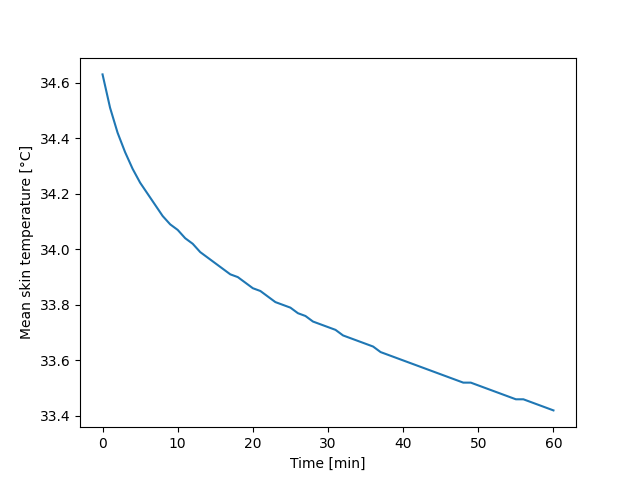
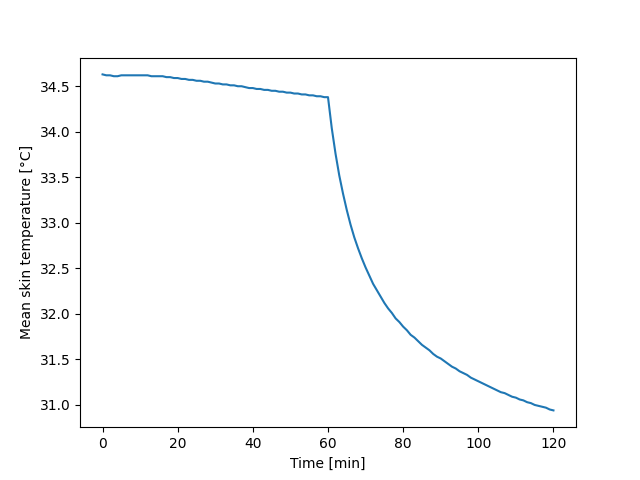
Updated female simulation code.

diff --git a/examples/calc_jos3.py b/examples/calc_jos3.py
@@ -166,21 +166,26 @@ def female_simulation():
     model = JOS3(height=1.7, weight=60, age=30, sex="female", bmr_equation="japanese")
 
     # Set the first phase
-    model.to = 28  # Operative temperature [°C]
-    model.rh = 40  # Relative humidity [%]
-    model.v = 0.2  # Air velocity [m/s]
-    model.par = 1.2  # Physical activity ratio [-]
-    model.simulate(60)  # Exposure time = 60 [min]
+    model.to = 28
+    model.rh = 40
+    model.v = 0.2
+    model.par = 1.2
+    model.clo = 0.3
+    model.simulate(60)
+
+    # Set the next condition
+    model.to = 20
+    model.simulate(60)
 
     # Show the results
-    df = pd.DataFrame(model.dict_results())  # Make pandas.DataFrame
-    df.t_skin_mean.plot()  # Plot time series of mean skin temperature.
-    plt.ylabel("Mean skin temperature [°C]")  # Set y-label as 'Mean skin temperature [°C]'
-    plt.xlabel("Time [min]")  # Set x-label as 'Time [min]'
+    df = pd.DataFrame(model.dict_results()
+    df.t_skin_mean.plot()
+    plt.ylabel("Mean skin temperature [°C]")
+    plt.xlabel("Time [min]")
     plt.savefig(
         os.path.join(jos3_example_directory, "jos3_example3_mean_skin_temperature.png")
-    )  # Save plot at the current directory
-    plt.show()  # Show the plot
+    )
+    plt.show()
 
     # Exporting the results as csv
     model.to_csv(os.path.join(jos3_example_directory, "jos3_example3 (female simulation).csv"))
